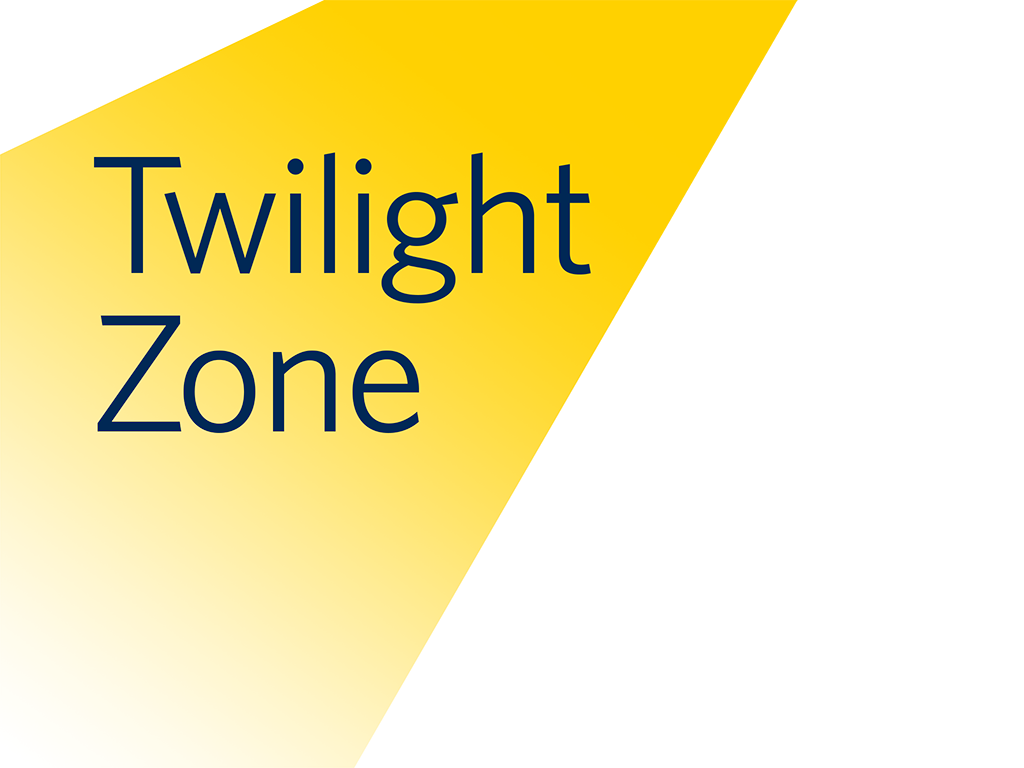
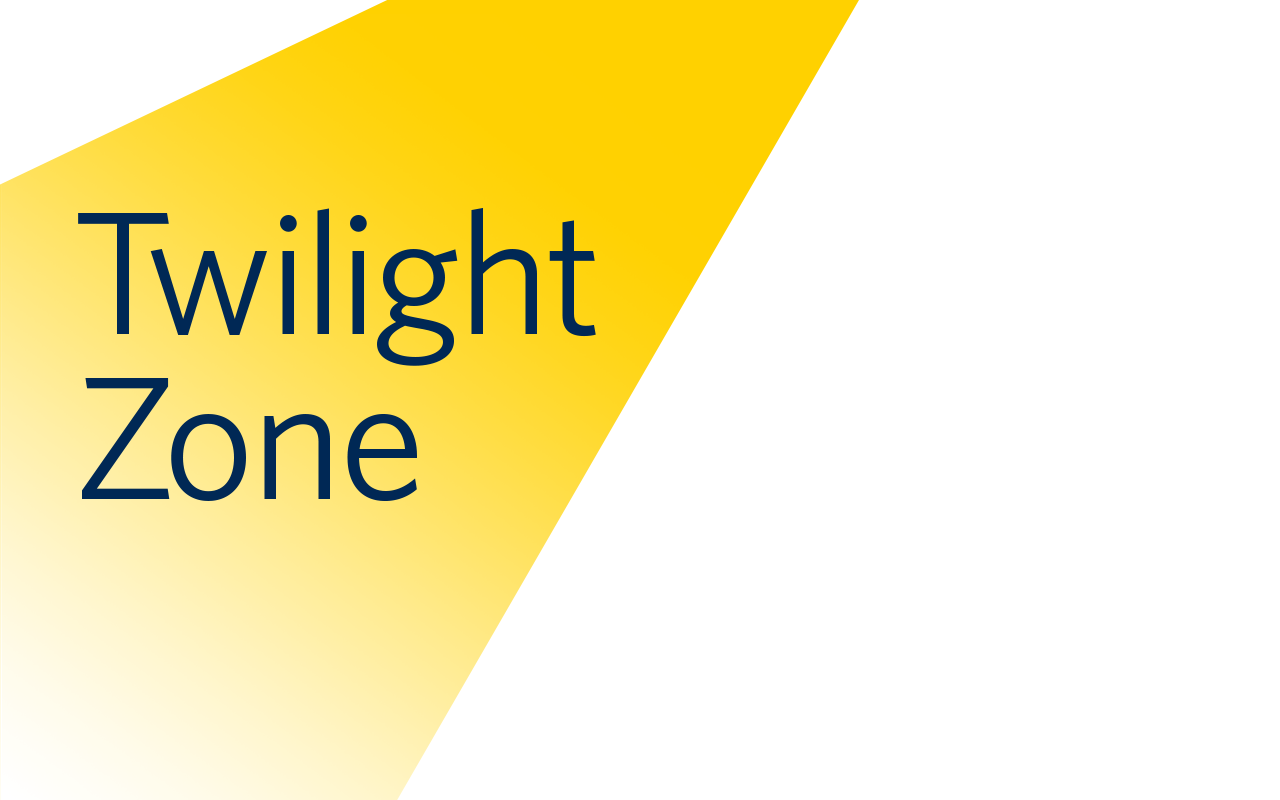
updating some theme title screens

diff --git a/preview/touchscreen/stylesheets/global.css b/preview/touchscreen/stylesheets/global.css
@@ -2008,7 +2008,7 @@ body #msg p:last-child {
   width: 50%;
   line-height: 1 !important;
   padding-top: 250px;
-  padding-left: 650px;
+  padding-left: 585px;
 }
 /* line 1016, ../sass/global.scss */
 .theme-162 body .field_exhibit_or_theme {

diff --git a/preview/touchscreen/sass/global.scss b/preview/touchscreen/sass/global.scss
@@ -1008,7 +1008,7 @@ body {
 					width: 50%;
 					line-height: 1 !important;
 					padding-top: 250px;
-					padding-left: 650px;
+					padding-left: 585px;
 				}
 			}
 		}
